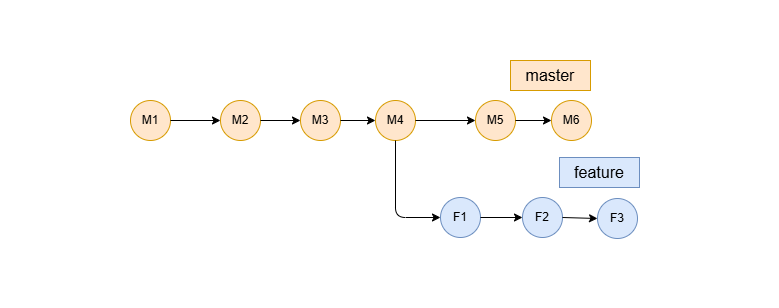
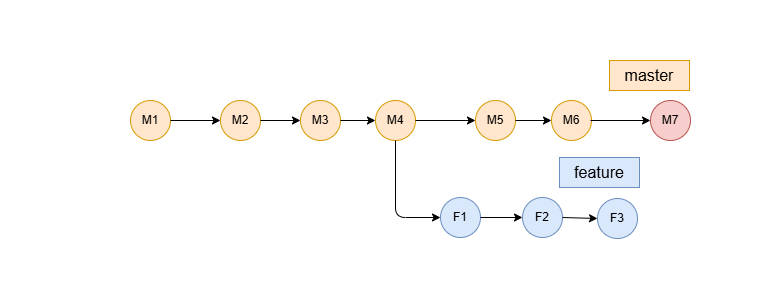
fix squash merge image and text

Changed region(s): [[0.647, 0.1753, 0.8935, 0.4675]]

diff --git a/src/app/blogs/stop-guessing-choose-the-right-git-merge-strategy-every-time/page.tsx b/src/app/blogs/stop-guessing-choose-the-right-git-merge-strategy-every-time/page.tsx
@@ -671,14 +671,14 @@ export default function GitMergeStrategies() {
                                 src={beforeSquash.src}
                                 alt="LithiumGit graph showing a feature branch with multiple commits before squash merge"
                             />
-                            <p className="image-caption">Before — feature branch has many small, incremental commits</p>
+                            <p className="image-caption">Before — feature branch has 3 incremental commits</p>
                         </div>
                         <div className="blog-image-block">
                             <img
                                 src={afterSquash.src}
                                 alt="LithiumGit graph after squash merge showing a single clean commit on master"
                             />
-                            <p className="image-caption">After — all commits squashed into one clean commit on master</p>
+                            <p className="image-caption">After — all commits squashed into one(M7) clean commit on master</p>
                         </div>
                     </div>
 